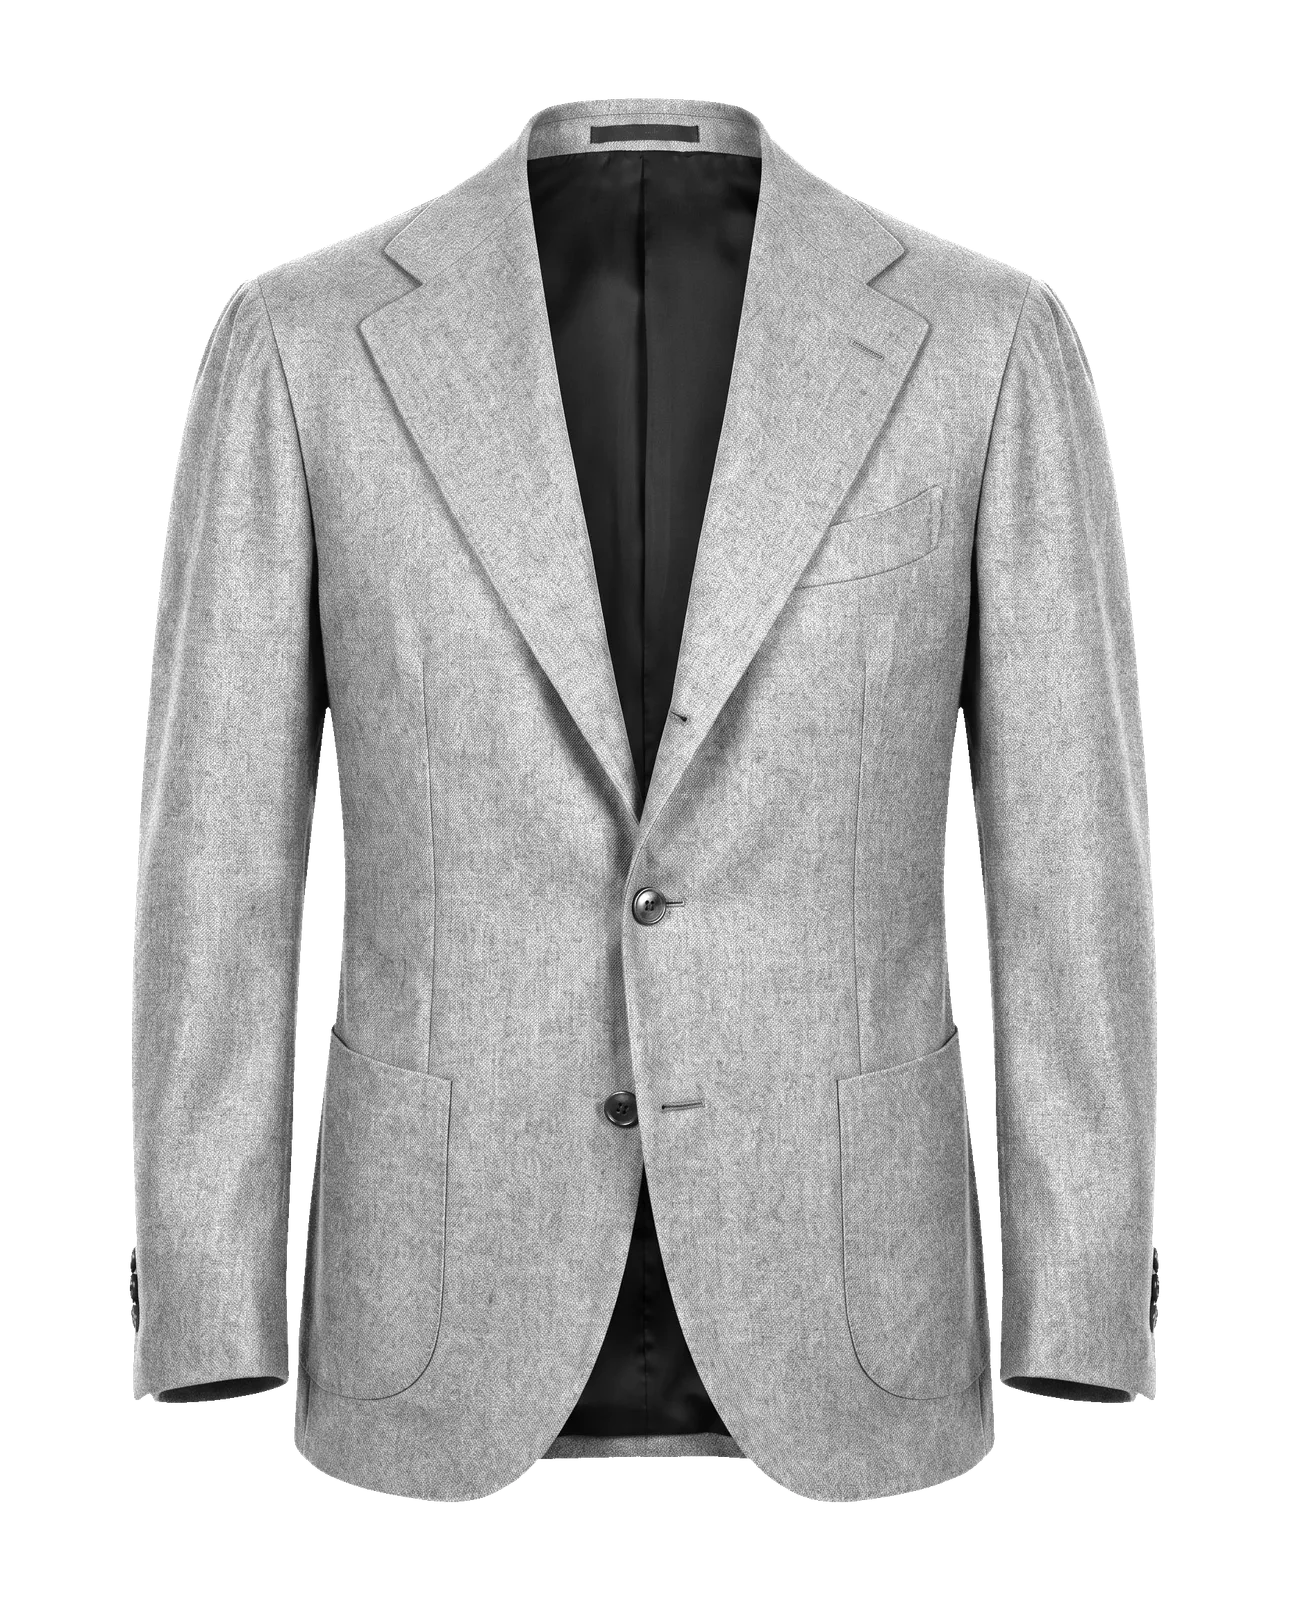
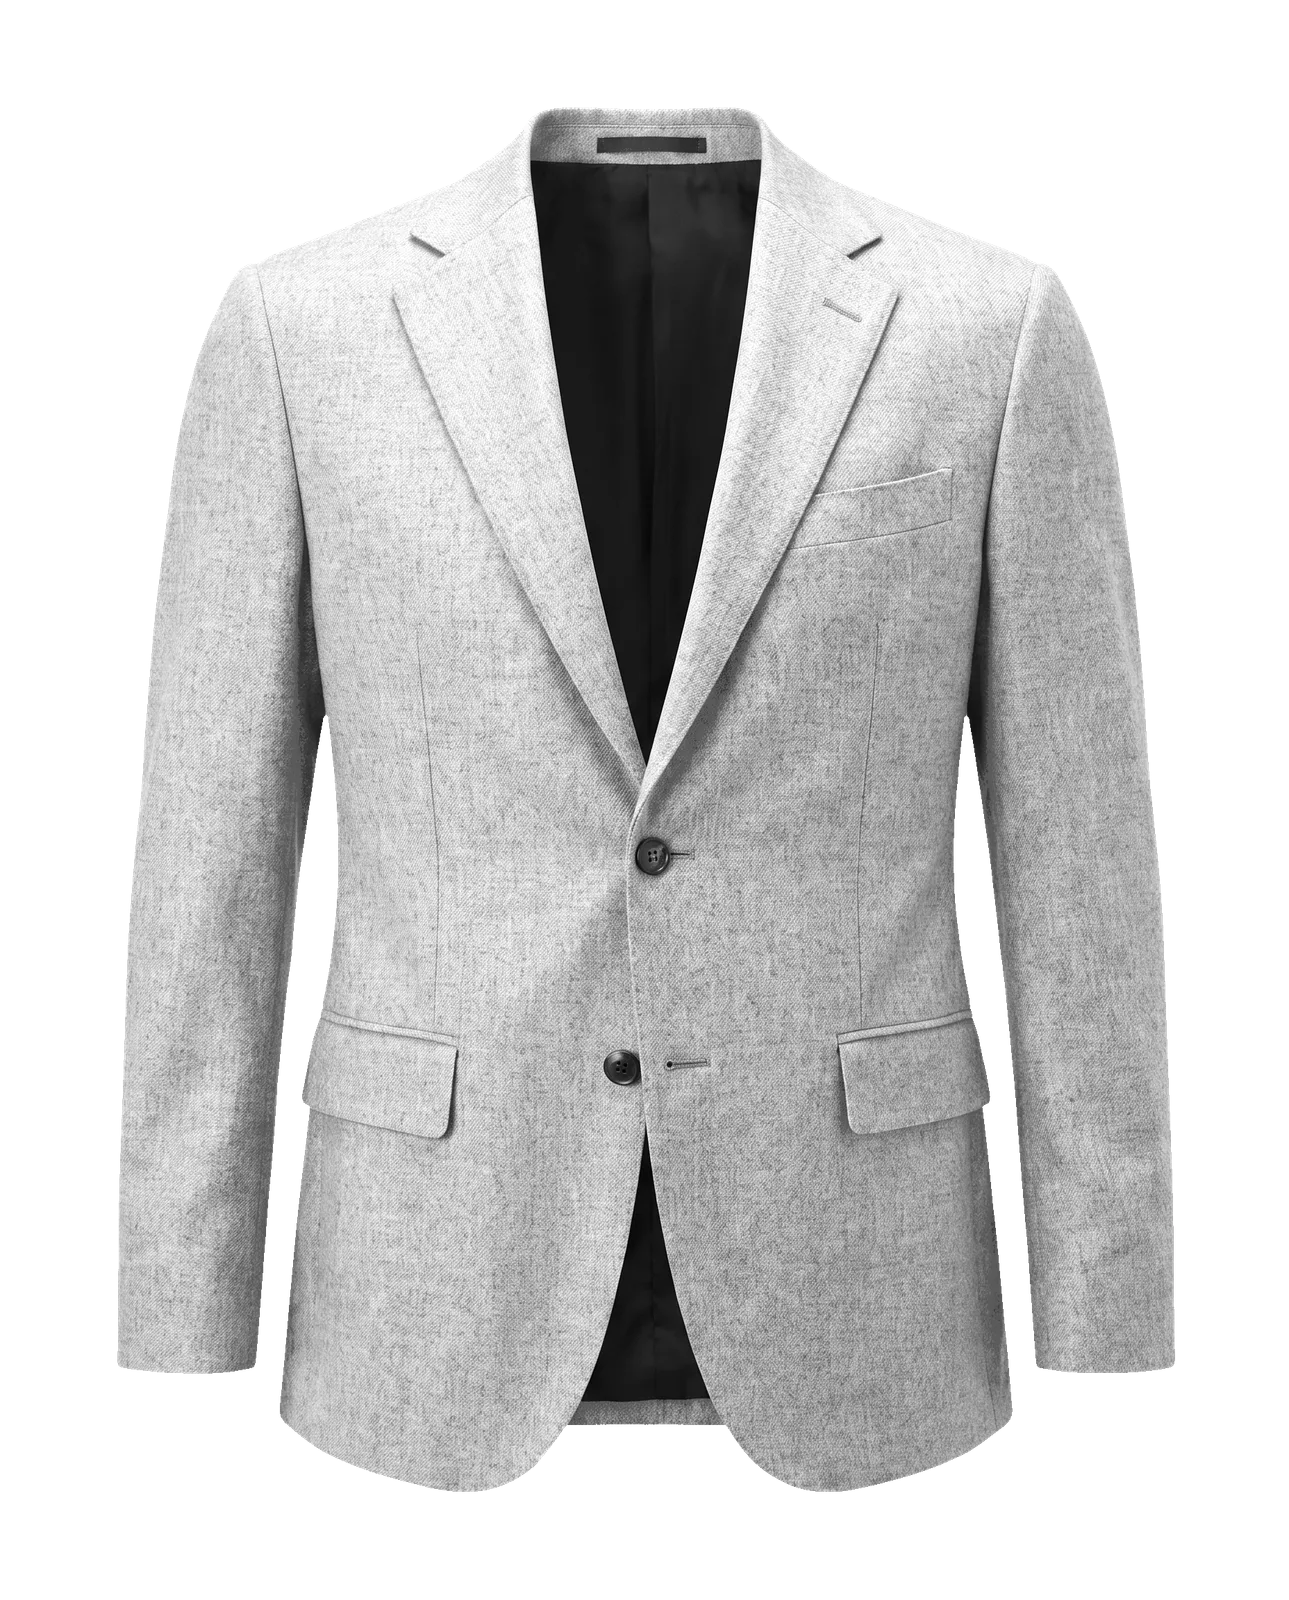
Wire real photography into the Bespoke Spec Configurator's lapel/pocket choices
Nano Banana Pro generations for three of the four requested combos, run
through tools/build-garment-assets.js:

- jacket-sb (base) repointed at a fresh notch+flap generation — the
  photo now actually matches the app's own coded default
  (VIS_ENS_STYLE_DEFAULTS.jacket = notch/flap), fixing a standing
  mismatch where the old stock photo visually read as patch pockets.
- jacket-sb-peak-patch, jacket-sb-peak-flap added as spec-driven photo
  variants, picked up automatically by resolveGarmentKey's self-healing
  lookup.
- The DB variant (jacket-db-peak-flap.png) was generated but is NOT
  wired in: it came out with a ticket pocket, which house style doesn't
  do. Left on disk for reference; needs a regeneration without one
  before it ships.

Also fixes a real bug this surfaced: the Bespoke Spec drawer's partial
DOM update only repainted a garment canvas with its EXISTING
data-garment-key, never recomputed which key should apply after a spec
change — so picking "Wide Peak" silently kept rendering the plain
jacket-sb photo. Added refreshEnsGarmentPhotoKey() to re-derive the key
from current style+spec before every such repaint.

diff --git a/tools/build-garment-assets.js b/tools/build-garment-assets.js
@@ -319,7 +319,25 @@ if (require.main === module) {
     // products but have no photograph yet, so they are intentionally absent
     // here and hidden from the configurator until their image lands.
     var SOURCES = {
-        "jacket-sb": "replicate-prediction-z3qrb03brdrmw0czgja8mnrmp4.jpeg",
+        // Bespoke Spec Configurator photos (2026-08-17, Nano Banana Pro).
+        // "jacket-sb" was repointed at a fresh notch+flap generation —
+        // the ORIGINAL replicate-prediction-z3qrb03... source stays on
+        // disk untouched (git history intact per the comment above), it
+        // is just no longer what this key builds from. The two
+        // *-peak-* keys are new spec-driven variants picked up
+        // automatically by resolveGarmentKey's self-healing lookup in
+        // garment-photo.js the moment their key is added to
+        // GARMENT_ASSET_KEYS below — see that function's own comment.
+        //
+        // jacket-db-peak-flap.png (also generated this session) is
+        // deliberately NOT wired in here — house style doesn't do ticket
+        // pockets, and that generation put one on the right hip (a
+        // second, smaller flap stacked above the main hip flap). The
+        // file is left on disk for reference; regenerate without a
+        // ticket pocket before adding a "jacket-db" + flap-pocket entry.
+        "jacket-sb": "jacket-sb-notch-flap-v2.png",
+        "jacket-sb-peak-patch": "jacket-sb-peak-patch.png",
+        "jacket-sb-peak-flap": "jacket-sb-peak-flap.png",
         "jacket-db": "replicate-prediction-fwrcgcn33xrmy0czgjavmrrfxg.jpeg",
         "vest-sb-none": "replicate-prediction-teg047kh8nrmr0czgjbtqq820w.jpeg",
         "vest-sb-shawl": "replicate-prediction-dxnwnqk7enrmt0czgjca61ysrw.jpeg",

diff --git a/fabric-visualiser.js b/fabric-visualiser.js
@@ -2035,6 +2035,25 @@ function hideEnsHotspot() {
 }
 window.hideEnsHotspot = hideEnsHotspot;
 
+// Recomputes and re-sets a garment canvas's data-garment-key from current
+// style+spec state. startVisEnsPhotos() below only REPAINTS using
+// whatever key is already sitting on the canvas — it does not re-derive
+// it — so a partial update that changes which photo SHOULD show (a
+// Bespoke Spec option, in particular) has to call this first, or the
+// repaint just redraws the same photo the spec change was supposed to
+// replace. Full renders don't need this: getVisEnsGarmentBlock already
+// computes a fresh key into the HTML string every time.
+function refreshEnsGarmentPhotoKey(garment) {
+    var canvas = document.getElementById("vis-ens-canvas-" + garment);
+    if (!canvas || typeof resolveGarmentKey !== "function") return;
+    var ens = getVisEnsembleState();
+    var style = ens.style[garment] || {};
+    var spec = ens.spec && ens.spec[garment];
+    var key = resolveGarmentKey(garment, style, spec);
+    if (key) canvas.setAttribute("data-garment-key", key);
+}
+window.refreshEnsGarmentPhotoKey = refreshEnsGarmentPhotoKey;
+
 // Paints every photographed garment canvas currently in the DOM — the
 // ensemble stage, the single-cloth view, and both sides of the Split all
 // use the same [data-garment-key] canvas contract. Called from the app

diff --git a/sw.js b/sw.js
@@ -6,7 +6,7 @@
 // IMPORTANT: bump CACHE_VERSION on every deploy that changes any
 // cached file (the ?v= params below must match index.html).
 
-var CACHE_VERSION = "bbs-v126";
+var CACHE_VERSION = "bbs-v127";
 
 var PRECACHE = [
     "./",
@@ -23,8 +23,8 @@ var PRECACHE = [
     "./heritage.js?v=2",
     "./attract-shader.js?v=3",
     "./weave-engine.js?v=3",
-    "./garment-photo.js?v=20",
-    "./fabric-visualiser.js?v=30",
+    "./garment-photo.js?v=21",
+    "./fabric-visualiser.js?v=31",
     "./cloth-study.js?v=5",
     "./archetype-avatars.js",
     "./vendor/cobe.js?v=1",
@@ -37,7 +37,7 @@ var PRECACHE = [
     "./vendor/firebase-app-compat.js",
     "./vendor/firebase-firestore-compat.js",
     "./firebase-init.js?v=3",
-    "./app.js?v=100",
+    "./app.js?v=101",
     "./fonts/eb-garamond-latin.woff2",
     "./fonts/eb-garamond-italic-latin.woff2",
     "./fonts/manrope-latin.woff2",
@@ -175,6 +175,8 @@ var PRECACHE = [
     "./images/lookbook/bbs-editorial-r0028121.jpg",
     "./images/lookbook/bbs-editorial-r0028013.jpg",
     "./images/garments/jacket-sb.webp",
+    "./images/garments/jacket-sb-peak-patch.webp",
+    "./images/garments/jacket-sb-peak-flap.webp",
     "./images/garments/jacket-db.webp",
     "./images/garments/vest-sb-none.webp",
     "./images/garments/vest-sb-shawl.webp",

diff --git a/garment-photo.js b/garment-photo.js
@@ -496,8 +496,15 @@ window.renderGarmentPhoto = renderGarmentPhoto;
 // (vest-db-none, vest-db-shawl) and the Gurkha trouser are real makes but
 // have no photograph yet, so they are absent here and hidden from the
 // configurator until their image lands — add the key the moment it does.
+//
+// jacket-sb-peak-patch and jacket-sb-peak-flap are Bespoke Spec Configurator
+// variants (2026-08-17) — resolveGarmentKey above picks either up
+// automatically when the client's lapel/pocket spec matches, falling back
+// to plain "jacket-sb" otherwise. No jacket-db variant yet: the one
+// generated alongside these had a ticket pocket (house style doesn't do
+// them) and was deliberately left out of tools/build-garment-assets.js.
 var GARMENT_ASSET_KEYS = [
-    "jacket-sb", "jacket-db",
+    "jacket-sb", "jacket-sb-peak-patch", "jacket-sb-peak-flap", "jacket-db",
     "vest-sb-none", "vest-sb-shawl",
     "trousers-flat", "trousers-double", "trousers-belt"
 ];

diff --git a/index.html b/index.html
@@ -338,8 +338,8 @@
     <script src="heritage.js?v=2"></script>
     <script src="attract-shader.js?v=3"></script>
     <script src="weave-engine.js?v=3"></script>
-    <script src="garment-photo.js?v=20"></script>
-    <script src="fabric-visualiser.js?v=30"></script>
+    <script src="garment-photo.js?v=21"></script>
+    <script src="fabric-visualiser.js?v=31"></script>
     <script src="cloth-study.js?v=5"></script>
     <script src="archetype-avatars.js"></script>
     <script src="vendor/cobe.js?v=1"></script>
@@ -356,7 +356,7 @@
     <script src="vendor/firebase-app-compat.js" defer></script>
     <script src="vendor/firebase-firestore-compat.js" defer></script>
     <script src="firebase-init.js?v=3" defer></script>
-    <script src="app.js?v=100"></script>
+    <script src="app.js?v=101"></script>
 
     <script>
         if (

diff --git a/app.js b/app.js
@@ -7357,6 +7357,7 @@ document.body.addEventListener("click", function (e) {
                 bsBtns[bi].setAttribute("aria-pressed", bsOn ? "true" : "false");
             }
         }
+        if (typeof refreshEnsGarmentPhotoKey === "function") refreshEnsGarmentPhotoKey(bsGarment);
         if (typeof startVisEnsPhotos === "function") startVisEnsPhotos();
         if (typeof updateBespokeSpecCard === "function") updateBespokeSpecCard();
     }
